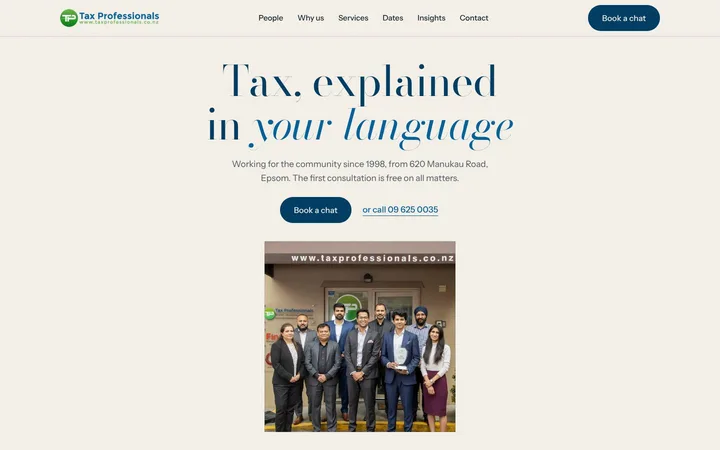
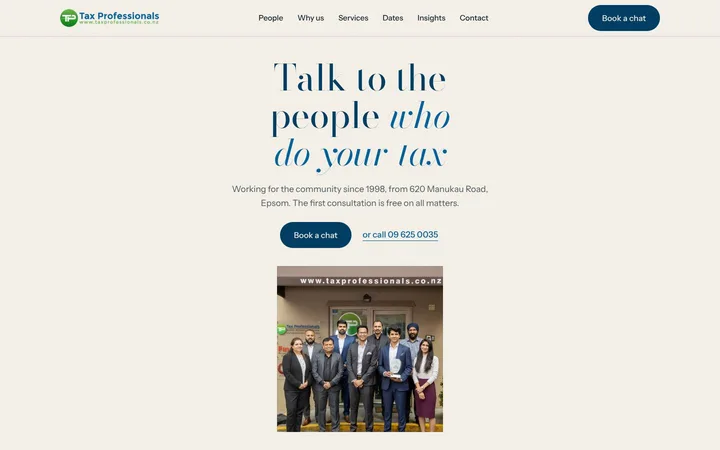
Gallery thumbnails retaken after the screen-by-screen refinement
Claude-Session: https://claude.ai/code/session_01UKGnvM1cpCK14tsVwDQfXY

Changed region(s): [[0.275, 0.1244, 0.7028, 0.9644]]

diff --git a/index.html b/index.html
@@ -404,7 +404,7 @@ body.arranging .arr .pos{margin-left:6px;min-width:56px;text-align:right}
 const FORM_ENDPOINT = "";
 const SEND_TO = "hello@ambs.co.nz";
 // bump when thumbnails change so browsers fetch the new covers (tools/thumbs.mjs does this)
-const THUMB_V = "202610280500";
+const THUMB_V = "202610281800";
 
 const CONCEPTS = window.TP_CONCEPTS;
 const url = c => "designs/" + c.slug + "/";
